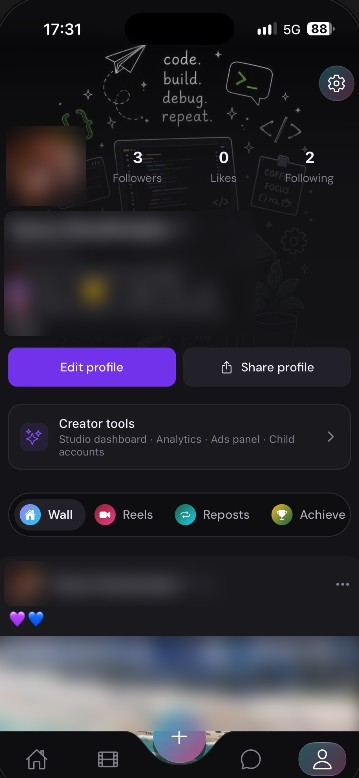
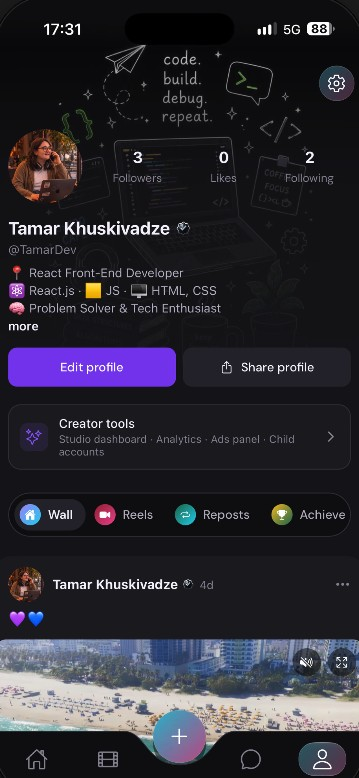
Remove footer, calm contact form, trim service proofs
- Remove footer
- Contact form: no tilt or glare, cleaner input fields
- Services: remove Novatori and portfolio proof cards
- WeGrids Mobile: restore unblurred profile and wallet screens

diff --git a/app/lib/content/services.ts b/app/lib/content/services.ts
@@ -22,7 +22,6 @@ export const services: Service[] = [
     stack: ["React", "Next.js", "Angular 21", "TypeScript", "Tailwind CSS"],
     proof: [
       { place: "WeGrids Web", result: "Sole frontend developer — streaming, reels, tournaments" },
-      { place: "Novatori", result: "React interfaces and API integration in a hybrid team" },
     ],
   },
   {
@@ -51,7 +50,6 @@ export const services: Service[] = [
     stack: ["SSR", "Code splitting", "Image optimization", "Lighthouse"],
     proof: [
       { place: "WeGrids Web", result: "Server-side rendering with Angular SSR" },
-      { place: "This portfolio", result: "Next.js image optimization and reduced-motion support" },
     ],
   },
   {

diff --git a/app/page.tsx b/app/page.tsx
@@ -1,5 +1,4 @@
 import Header from "@/app/components/layout/header";
-import Footer from "@/app/components/layout/footer";
 import AuroraBackground from "@/app/components/layout/aurora-background";
 import SectionStage from "@/app/components/layout/section-stage";
 import TiltOnHover from "@/app/components/effects/tilt-on-hover";
@@ -23,12 +22,7 @@ export default function Home() {
           "#services": <Services />,
           "#skills": <Skills />,
           "#projects": <Projects />,
-          "#contact": (
-            <>
-              <Contact />
-              <Footer />
-            </>
-          ),
+          "#contact": <Contact />,
         }}
       />
     </>

diff --git a/app/components/sections/contact-form.tsx b/app/components/sections/contact-form.tsx
@@ -23,7 +23,7 @@ export default function ContactForm() {
   };
 
   return (
-    <form onSubmit={sendByEmail} data-tilt className="glass relative flex h-full flex-col gap-4 overflow-hidden rounded-[2rem] p-8 lg:p-10">
+    <form onSubmit={sendByEmail} className="glass relative flex h-full flex-col gap-4 overflow-hidden rounded-[2rem] p-8 lg:p-10">
       <div className="pointer-events-none absolute -right-24 -top-24 h-72 w-72 rounded-full bg-accent/25 blur-[90px]" />
       <div className="pointer-events-none absolute -bottom-28 left-10 h-64 w-64 rounded-full bg-cyan-400/15 blur-[90px]" />
 

diff --git a/app/components/ui/input.tsx b/app/components/ui/input.tsx
@@ -1,7 +1,7 @@
 import type { InputHTMLAttributes, TextareaHTMLAttributes } from "react";
 
 const baseClasses =
-  "rounded-xl border border-border bg-background px-4 py-3 text-sm outline-none transition-colors placeholder:text-muted-foreground focus:border-accent";
+  "rounded-xl border border-white/10 bg-white/[0.04] px-4 py-3.5 text-[15px] outline-none transition-[border-color,box-shadow] duration-200 placeholder:text-muted-foreground/70 focus:border-accent/60 focus:ring-4 focus:ring-accent/15";
 
 type InputProps = InputHTMLAttributes<HTMLInputElement> & {
   className?: string;
